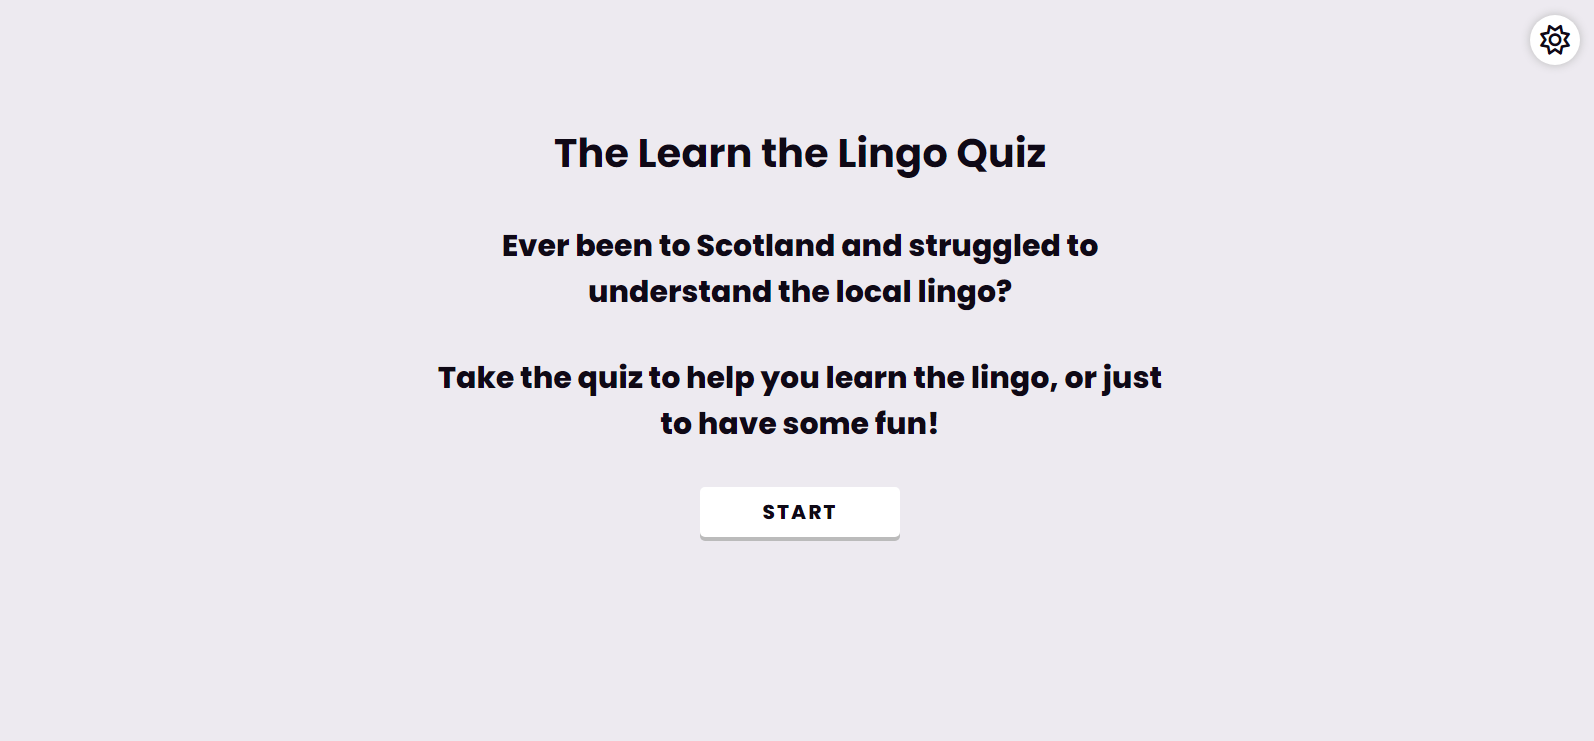
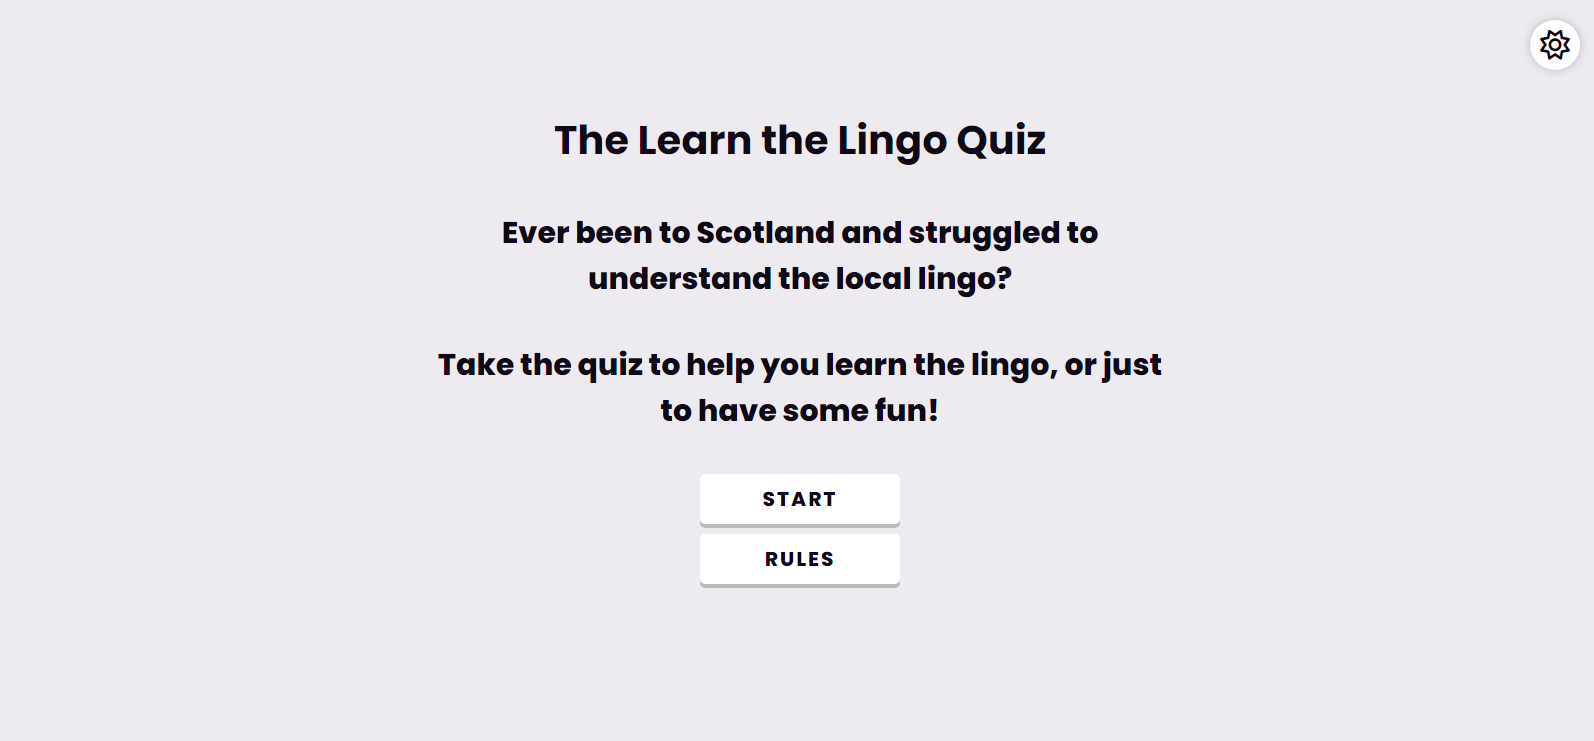
Update readme with modal content

diff --git a/README.md b/README.md
@@ -68,6 +68,7 @@ find this challenging to encounter but I find it particularly interesting and fu
 - I want to know what the website is about upon arriving.
 - I want the website to be easily navigatable.
 - I want the website to be responsive to the device screen size that I am using.
+- I want to know the rules of the quiz.
 - I want to see a score count as I play and my score result on completing the quiz.
 - I want a question counter to know how far I have progressed in the quiz.
 - I want to know if I have answered the quiz question correctly.
@@ -123,11 +124,15 @@ buttons to navigate back to the home page or to the quiz page again.
 - The home page displays the title of the website clearly.
 - Below this, there is a brief introduction to the website and an invitation to take the quiz.
 - Below the introduction, there is a button labelled "start" that when clicked takes you to the quiz page.
-- The button is styled with a box shadow to make it stand out as a button. There is a hover effect applied that changes the cursor
+- Below the start button, there is a button labelled "rules". When clicked, a modal appears with the rules. The main background behind
+the modal darkens making the modal the focus of the page when open. The modal has a close button that when clicked closes the modal.
+Clicking any area outside the modal will also close it.
+- The buttons are styled with a box shadow to make them stand out as buttons. There is a hover effect applied that changes the cursor
 to a pointer and makes the button pop up a fraction. This gives the appearance of it moving in a 3D direction out of the screen.
 - There is a dark mode toggle icon to allow the user to change between the default light mode to dark mode. This is displayed on each
 of the pages of the website.  
 ![](/docs/website_screenshots/home_page.png)  
+![](/docs/website_screenshots/home_page_rules_modal.png)  
 ### Quiz Page
 - The quiz page is made up of a quiz area with a shadow effect border applied.
 - Within this area, there are three main components, the quiz head, the question display, and the associated answers options.
@@ -238,7 +243,9 @@ time of submission.
 - Quiz Over
     - Result - No errors or warnings.  
     ![](/docs/testing/jshint_quiz_over.png)
-
+- Rules
+    - Result - No errors or warnings.  
+    ![](/docs/testing/jshint_rules.png)
 ### Accessibility
 #### WebAIM
 - I tested the contrast of the font colours used against their respective background colours using WebAIM.
@@ -289,11 +296,15 @@ a new page is opened.
     ![](/docs/website_screenshots/home_page_text.png)
 - I want the website to be easily navigatable.
     - There are easy to locate labelled buttons on each page which take you to where you would expect.  
-    ![](/docs/website_screenshots/start_btn.png)  
+    ![](/docs/website_screenshots/home_page_btns.png)  
     ![](/docs/website_screenshots/quiz_over_btns.png)  
 - I want the website to be responsive to the device screen size that I am using.
     - The website is responsive to the device screen size it is being viewed on by using a simple design and a media query
     where required (see image above in [manual testing](#manual)).  
+- I want to know the rules of the quiz.
+    - There is rules button that when clicked on opens a modal containing the rules.  
+    ![](/docs/website_screenshots/home_page_btns.png)  
+    ![](/docs/website_screenshots/home_page_rules_modal.png)  
 - I want to see a score count as I play and my score result on completing the quiz.
     - There is a score display area located in the quiz head to the top right of the quiz. Once the user completes the quiz they
     are presented with their result and a short message (see also image below next bullet point for score count).  
@@ -405,6 +416,8 @@ The steps below describe how to fork or clone the repository if desired.
     [Future Coders](https://www.youtube.com/watch?v=D2V2DT1FCNk).
 - For help with determining the dark mode status from local storage I referred to:
     - Dark Mode JavaScript toggle using localStorage even on reload by [codewj](https://www.youtube.com/watch?v=-Jt_h91uXkQ).
+- To add the rules modal I used code from the [W3Schools'](https://www.w3schools.com/howto/howto_css_modals.asp) page:
+    - How To Create a Modal Box.
 
 ### Resources
 - For tips relating to root font size and how to override to create a better user experience on
